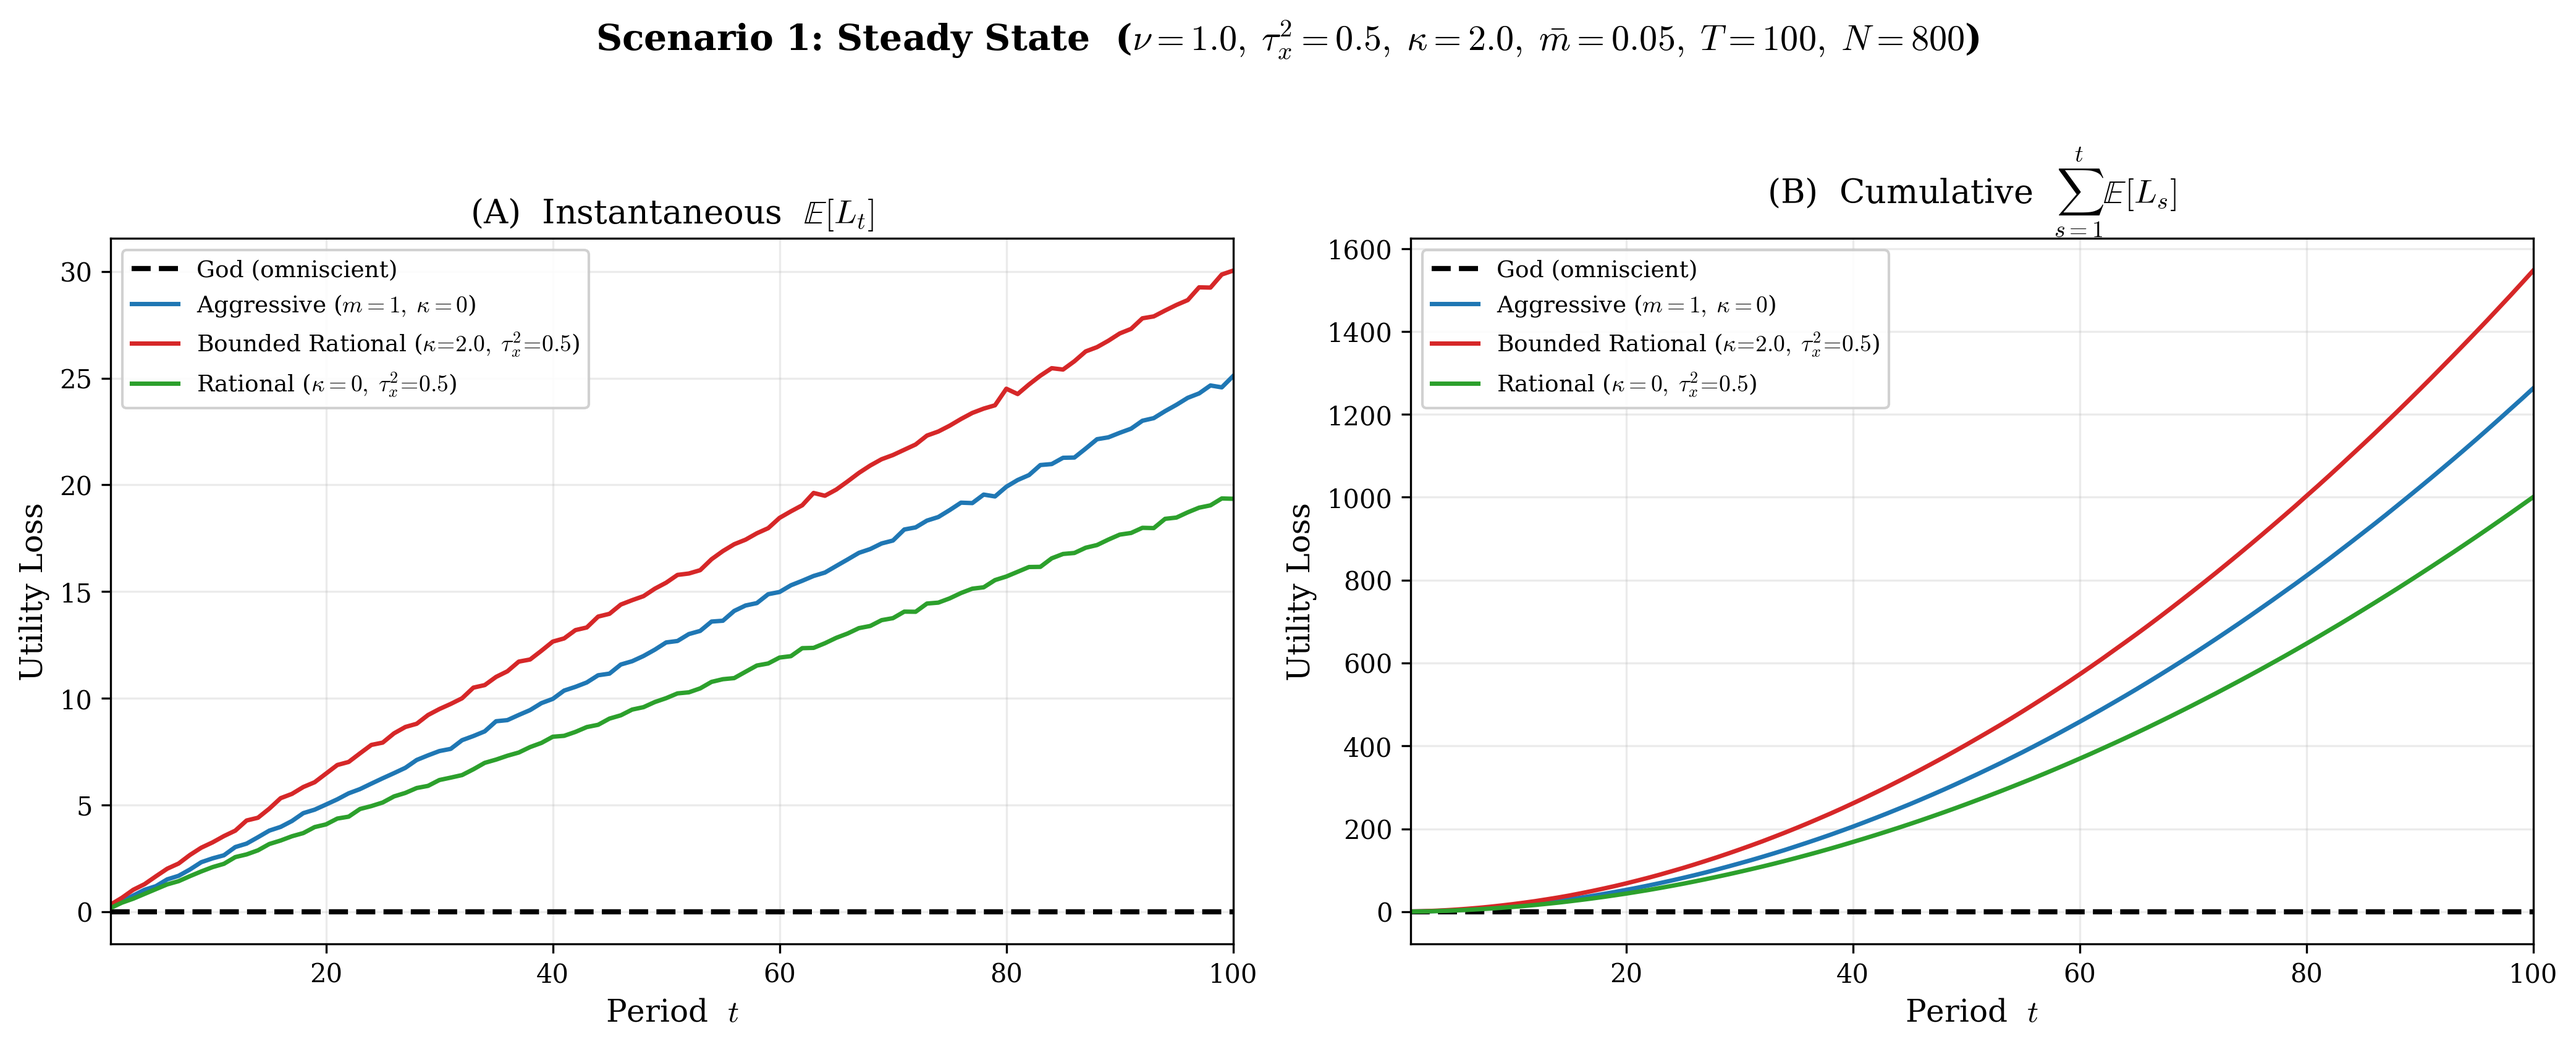
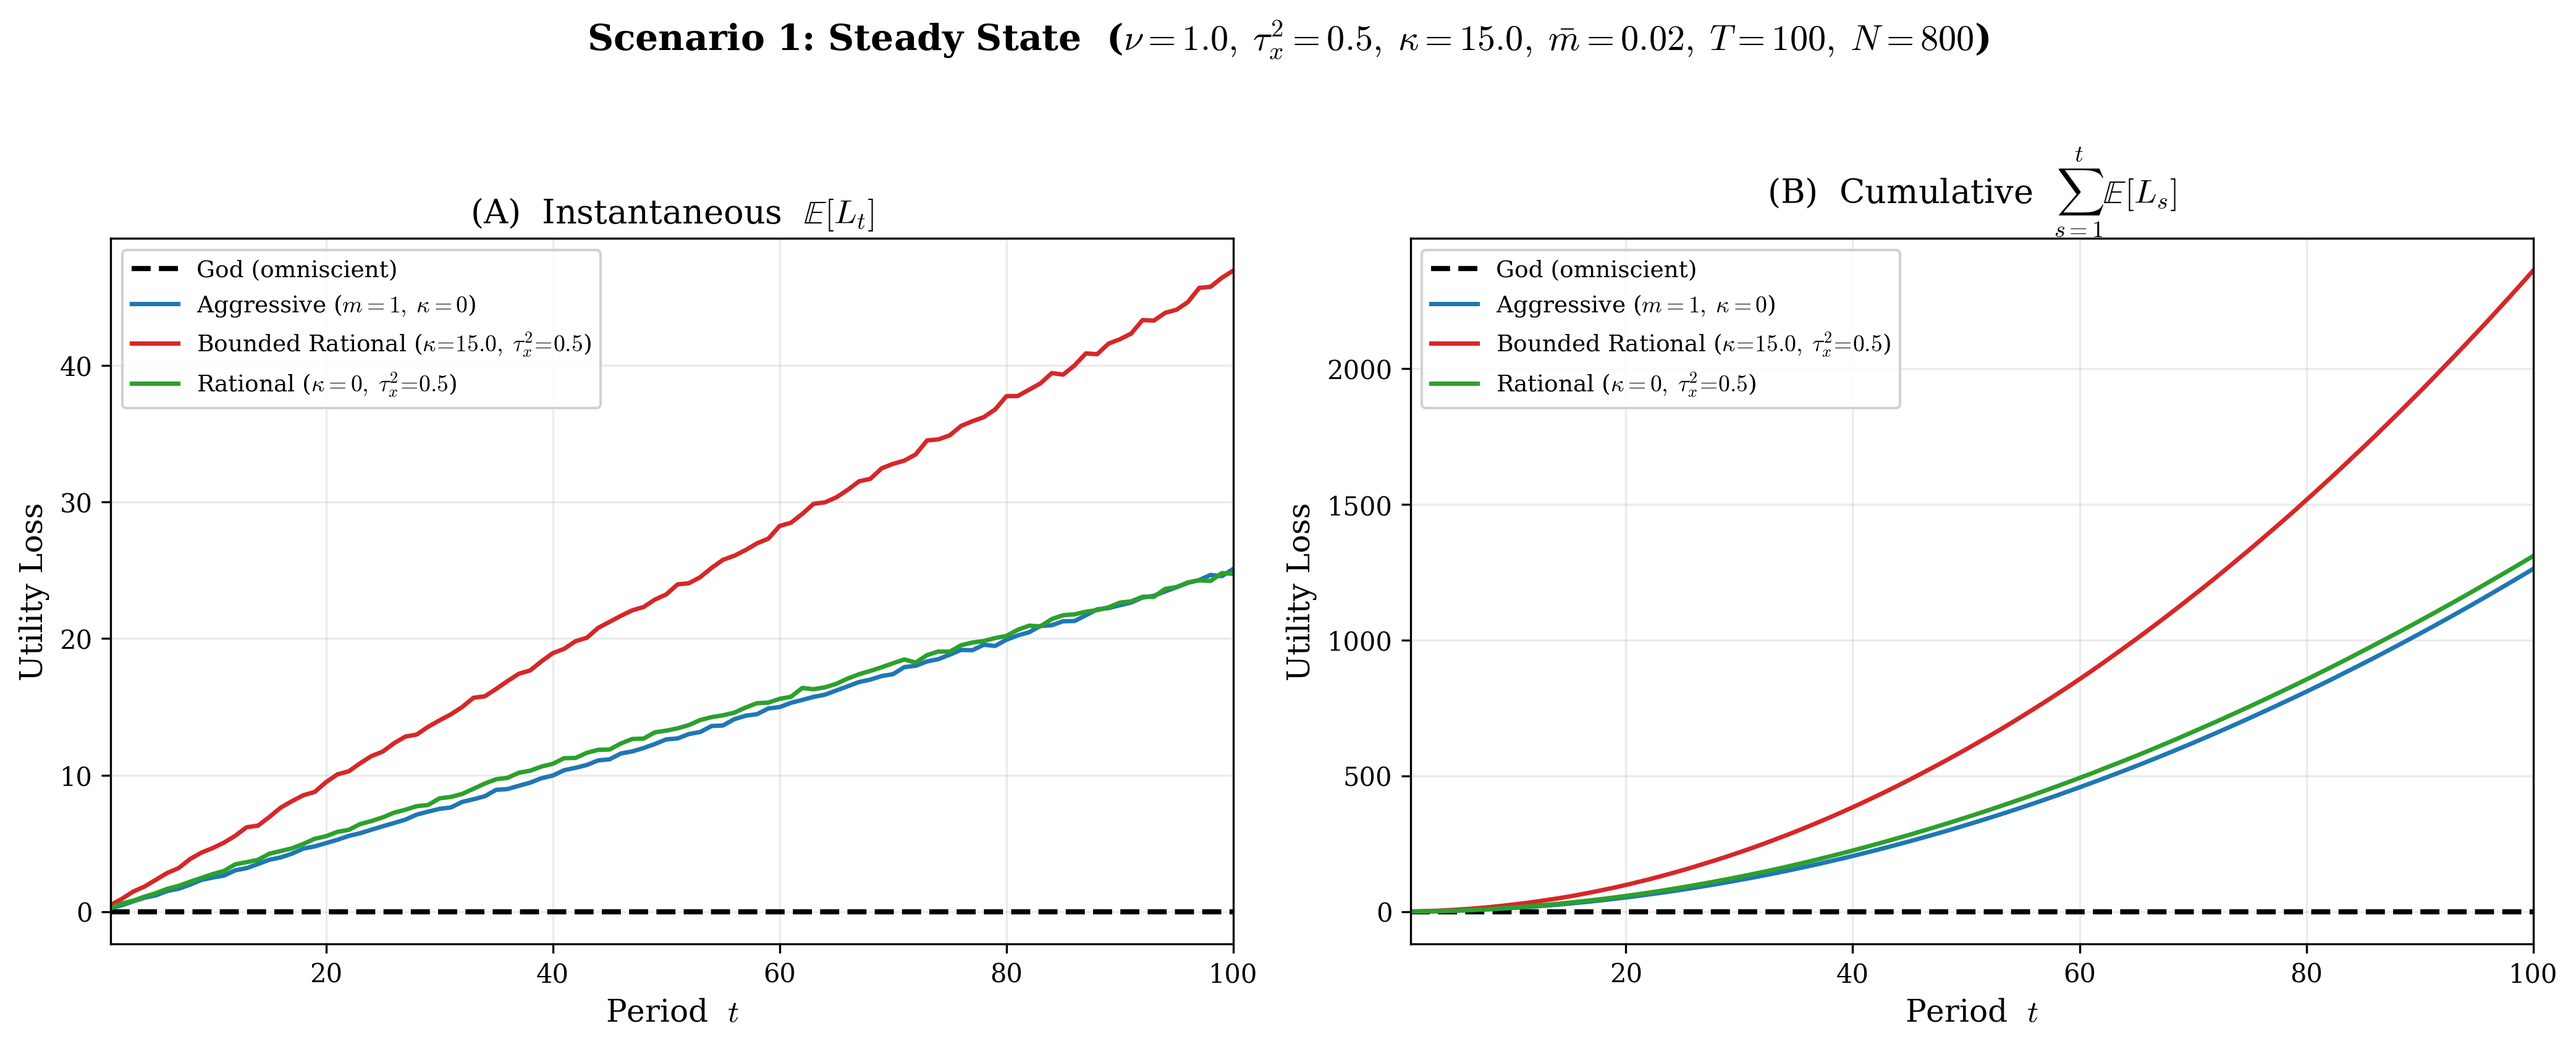
Tune to high-stickiness regime: kappa=15, eta2_z=3, nu0_hat=0.2, m_bar=0.02
Previous params (kappa=2) gave a long-run m* gap of only ~27pp between
BR and Rational, which made Prop 5 stickiness visually subtle.  This
commit pushes BR firmly into the 'stuck on the floor' regime:

  - Rational long-run m* on shocked dim:   ~0.93
  - BR        long-run m* on shocked dim:   ~0.24
  - Per-dim MSE gap on shocked dim:         ~10x (one log decade)
  - Cumulative loss(BR) / cumulative loss(Rational): ~1.85x

In this regime Aggressive and Rational nearly coincide (m=1 vs m*~0.93),
which actually sharpens the message: all of BR's excess loss comes from
the sticky-mental-model channel, not from generic noise accumulation.

diff --git a/prop7_user_version.py b/prop7_user_version.py
@@ -33,13 +33,13 @@ matplotlib.rcParams['mathtext.fontset'] = 'cm'
 T         = 100       # total periods = total dimensions that arrive
 MU        = 1.0       # decision coefficient mu_i
 TAU2_X    = 0.5       # observation noise variance for x_{i,t}
-KAPPA     = 2.0       # cognitive cost (Bounded Rational only)
-M_BAR     = 0.05      # passive attention floor
-NU0_HAT   = 0.5       # initial prior mean of nu_i
+KAPPA     = 15.0      # cognitive cost (Bounded Rational only) -- HIGH-STICKINESS regime
+M_BAR     = 0.02      # passive attention floor (low so BR has room to "stick")
+NU0_HAT   = 0.2       # initial prior mean of nu_i (pessimistic: guarantees low initial m*)
 P0        = 1.0       # initial prior variance of nu_i
-ETA2_Z    = 1.0       # diagnostic-signal base noise variance
+ETA2_Z    = 3.0       # diagnostic-signal base noise (high => slow learning => BR stays stuck)
 NU_STEADY = 1.0       # true nu_i in steady state
-NU_SHOCK  = 3.0       # true nu_i for the shocked dimension(s)
+NU_SHOCK  = 5.0       # true nu_i for the shocked dimension(s)
 T_SHOCK   = 30        # 0-indexed arrival period of the shocked dimension
 N_SIM     = 800       # Monte Carlo replications
 SEED      = 42
